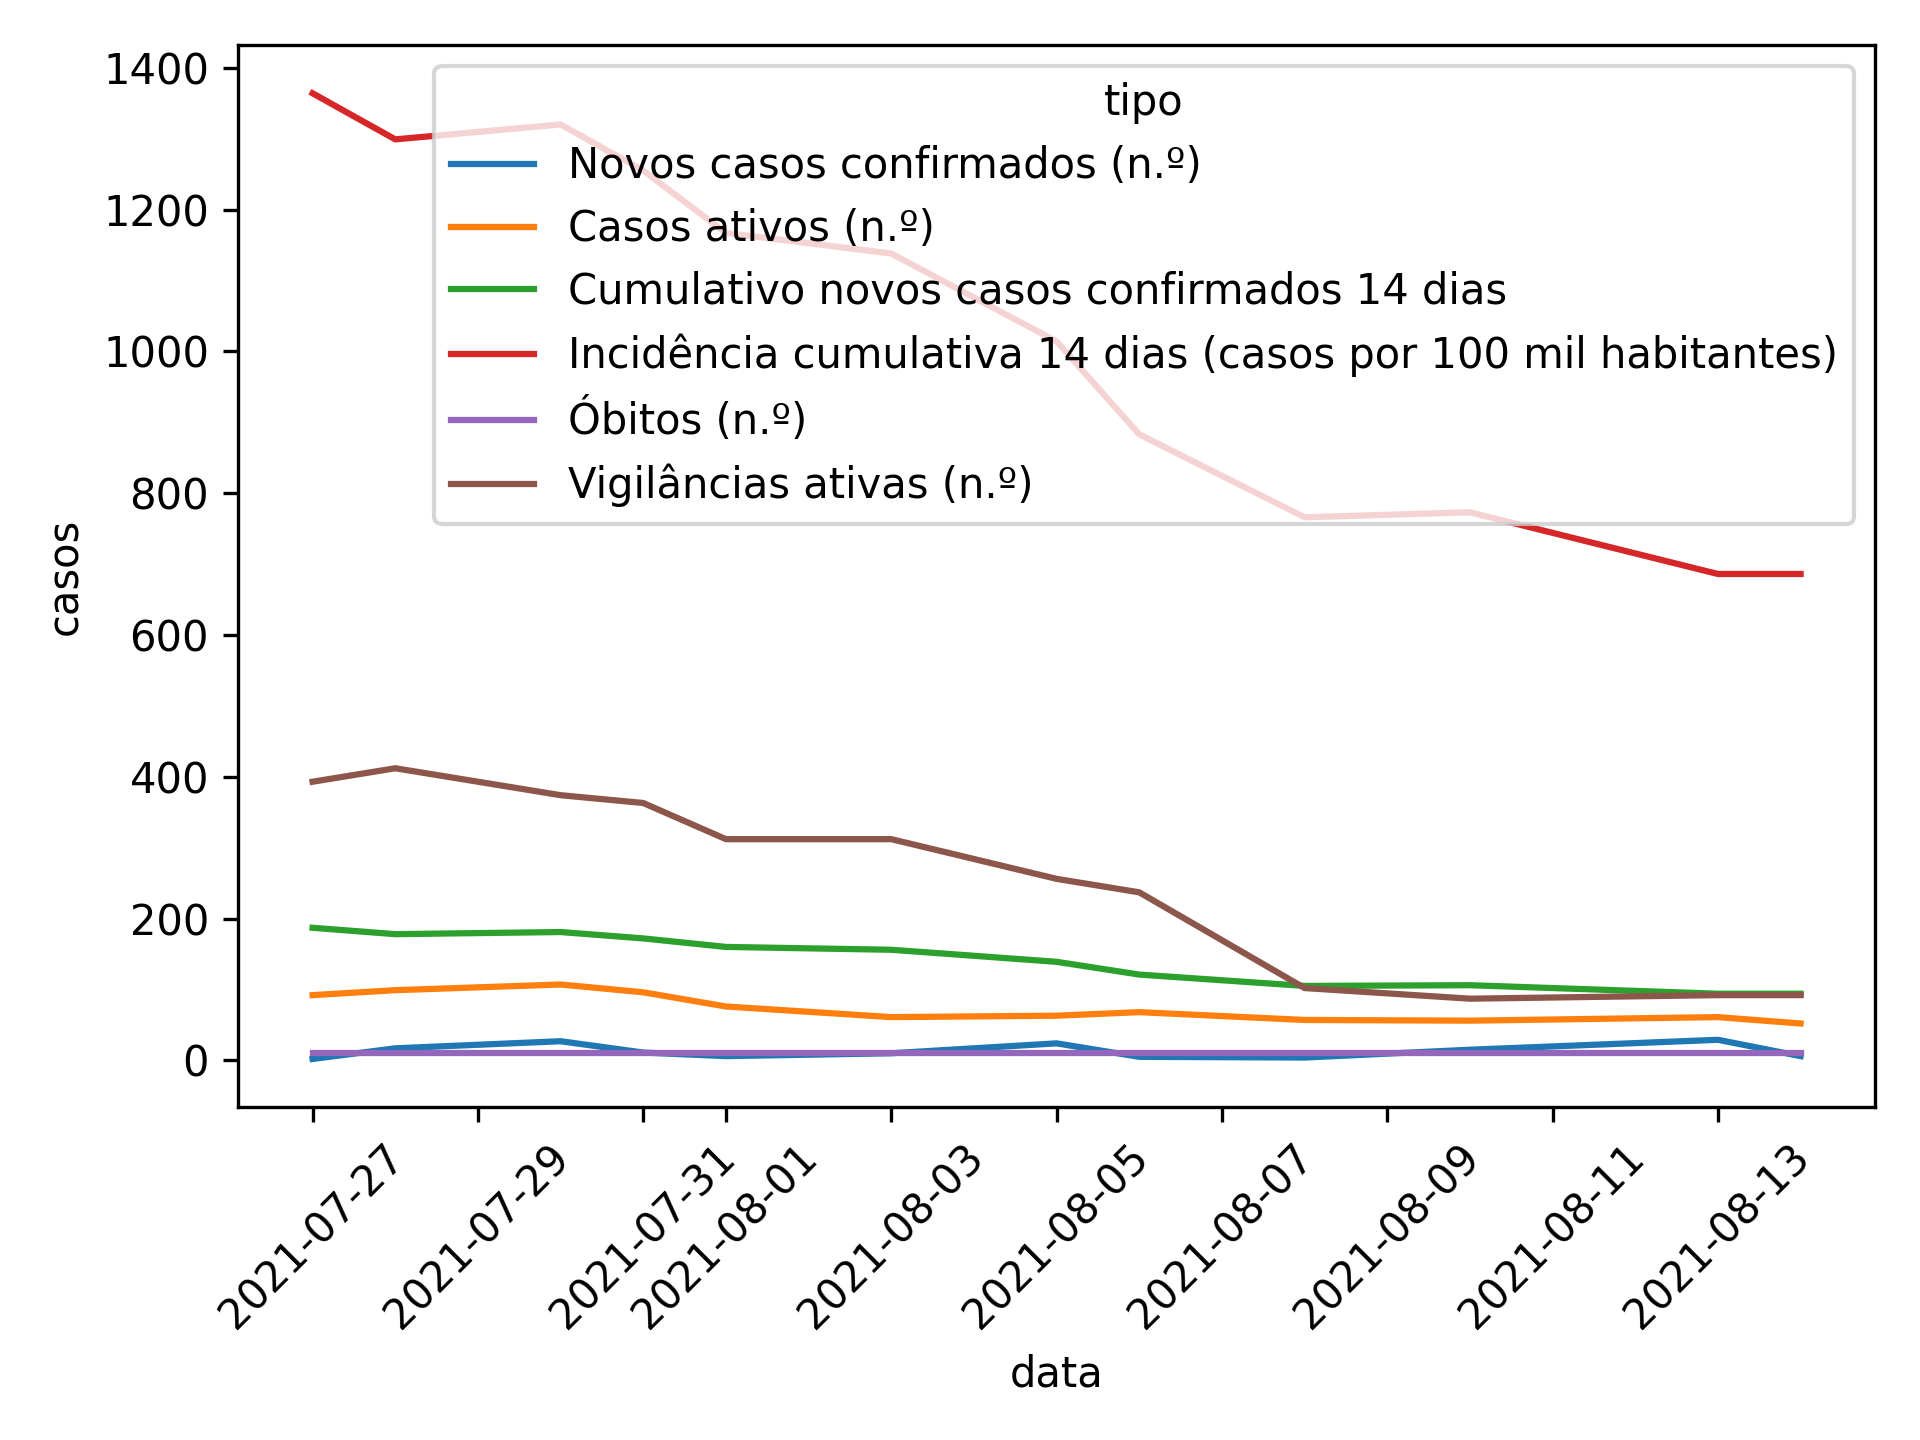
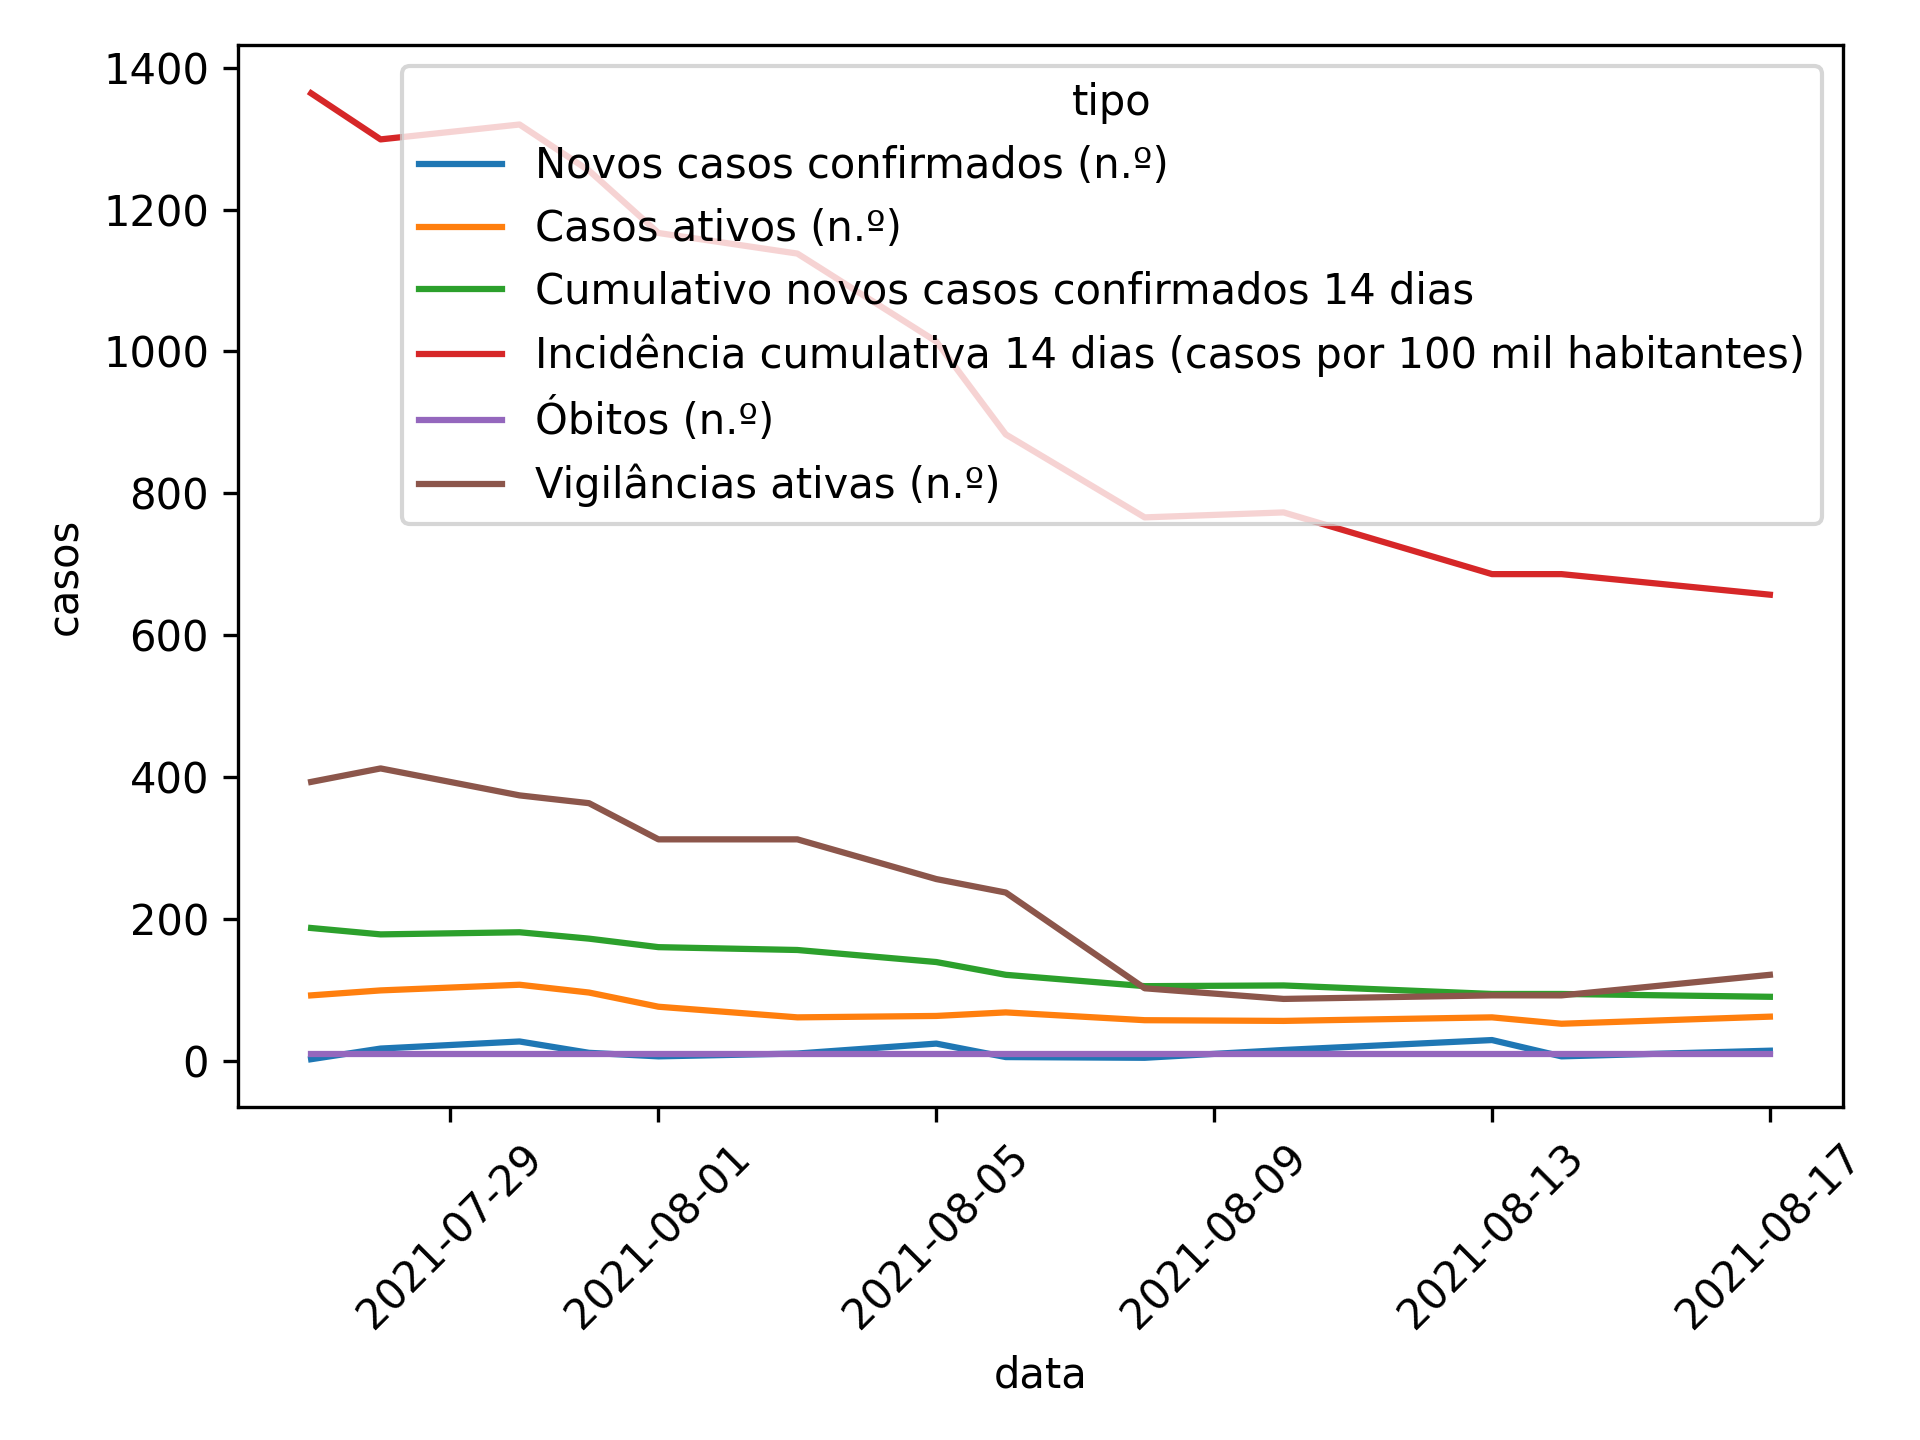
Apply automatic changes

diff --git a/README.md b/README.md
@@ -18,3 +18,4 @@
 | 10-08-2021 |                              15 |                   56 |                                          106 |                                                            773 |             10 |                         87 |
 | 13-08-2021 |                              29 |                   61 |                                           94 |                                                            686 |             10 |                         92 |
 | 14-08-2021 |                               6 |                   52 |                                           94 |                                                            686 |             10 |                         92 |
+| 17-08-2021 |                              14 |                   62 |                                           90 |                                                            657 |             10 |                        121 |
